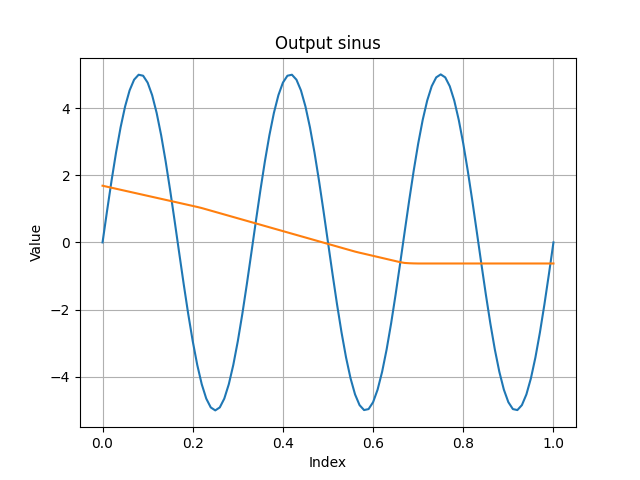
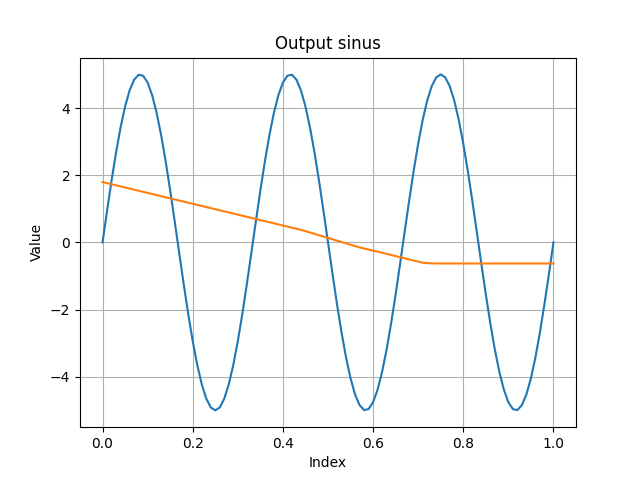
add validation to the training step

Changed region(s): [[0.1562, 0.375, 0.6875, 0.5625]]

diff --git a/moppy/deep_promp/deep_promp.py b/moppy/deep_promp/deep_promp.py
@@ -29,7 +29,7 @@ def gauss_kl(mu_q, std_q, mu_p=None, std_p=None, scale=1.0):
     return distributions.kl_divergence(q_dist, p_dist)
 
 
-def calculate_elbo(y_pred, y_star, mu, sigma, beta=1.0):
+def calculate_elbo(y_pred, y_star, mu, sigma, beta=0.5):
     """Calculate the Evidence Lower Bound (ELBO) using the reconstruction loss and the KL divergence.
     The ELBO is the loss function used to train the DeepProMP."""
 
@@ -49,7 +49,6 @@ class DeepProMP(MovementPrimitive):
 
     def __init__(self, name: str, encoder: EncoderDeepProMP, decoder: DecoderDeepProMP, save_path: str = './deep_promp/output/'):
         super().__init__(name, encoder, decoder)
-        print("DeepProMP init")
 
         # Check if the encoder and decoder are instances/subclasses of EncoderDeepProMP and DecoderDeepProMP
         if not issubclass(type(encoder), EncoderDeepProMP):
@@ -102,11 +101,18 @@ class DeepProMP(MovementPrimitive):
         """Train the DeepProMP using the given trajectories. The training is done using the Evidence Lower Bound (ELBO).
         The ELBO is the loss function used to train the DeepProMP. The training is done using the Adam optimizer."""
         # Optimizers
+        training_set = trajectories[:(len(trajectories) * 9) // 10]
+        validation_set = trajectories[-len(trajectories) // 10:]
+        print("Total set: ", len(trajectories))
+        print(f"Training set: {len(training_set)}")
+        print(f"Validation set: {len(validation_set)}")
+
         optimizer = optim.Adam(list(self.encoder.net.parameters()) + list(self.decoder.net.parameters()), lr=0.001)
         losses_traj = []
-        episodes = 10
+        losses_validation = []
+        episodes = 100
         for i in range(episodes):
-            for tr_i, data in enumerate(trajectories):
+            for tr_i, data in enumerate(training_set):
                 optimizer.zero_grad()  # Zero the gradients of the optimizer to avoid accumulation
                 mu, sigma = self.encoder(data)
                 latent_var_z = self.encoder.sample_latent_variable(mu, sigma)
@@ -119,8 +125,12 @@ class DeepProMP(MovementPrimitive):
                 loss = calculate_elbo(decoded, data.to_vector(), mu, sigma)
                 print(f"{i + 1}/{episodes} - {tr_i + 1}/{len(trajectories)} = {loss.item()}")
                 loss.backward()
-                # losses_traj.append(loss.detach().numpy())
+                losses_traj.append(loss.detach().numpy())
                 optimizer.step()
+            # validation
+            validation_loss = self.validate(validation_set)
+            losses_validation.append(validation_loss)
+            print(f"Episode {i+1} validation loss = " + validation_loss)
 
         print("Training finished")
         print("Plotting...", end='', flush=True)
@@ -134,7 +144,6 @@ class DeepProMP(MovementPrimitive):
         plt.grid(True)
 
         # Save the plot as an image file
-        #plt.savefig('tensor_values_plot.png')
         values = [t.item() for t in losses]
         # Plotting
         plt.plot(values)
@@ -146,6 +155,16 @@ class DeepProMP(MovementPrimitive):
         # Save the plot as an image file
         plt.savefig(self.save_path + 'msloss.png')
 
+        plt.close()
+        plt.plot(losses_validation)
+        plt.title('Validation Loss')
+        plt.xlabel('Index')
+        plt.ylabel('Value')
+        plt.grid(True)
+
+        # Save the plot as an image file
+        plt.savefig(self.save_path + 'validation_loss.png')
+
         print("finished")
         print("Saving models...", end='', flush=True)
         self.decoder.save_model(self.save_path)
@@ -155,9 +174,22 @@ class DeepProMP(MovementPrimitive):
     def test(self):
         raise NotImplementedError()
 
-    def validate(self):
-        raise NotImplementedError()
+    def validate(self, trajectories: List[Trajectory]):
+        loss = 0
+        for traj in trajectories:
+            mu, sigma = self.encoder(traj)
+            latent_var_z = self.encoder.sample_latent_variable(mu, sigma)
 
+            decoded = []
+            for j in traj.get_points():
+                decoded.append(self.decoder(latent_var_z, j.get_time()))
+            decoded = torch.cat(decoded)
+
+            loss += nn.MSELoss()(decoded, traj.to_vector()).detach().numpy()
+        return loss / len(trajectories)  # Average loss
 
     def __str__(self):
-        return f"DeepProMP: {self.name} - encoder: {self.encoder} - decoder: {self.decoder}"
+        return f"DeepProMP({self.name})" '{' + \
+            '\n' + f"encoder: {self.encoder}" + \
+            '\n' + f"decoder: {self.decoder}" + \
+            '\n' + '}'

diff --git a/moppy/deep_promp/encoder_deep_pro_mp.py b/moppy/deep_promp/encoder_deep_pro_mp.py
@@ -19,7 +19,6 @@ class EncoderDeepProMP(LatentEncoder):
                  trajectory_state_class: Type[TrajectoryState] = JointConfiguration,
                  activation_function: Union[nn.Tanh, nn.ReLU, nn.Sigmoid] = nn.ReLU):
         super().__init__()
-        print("EncoderDeepProMP init")
 
         # Check if the trajectory state class is a subclass of TrajectoryState
         if trajectory_state_class not in TrajectoryState.__subclasses__():
@@ -140,8 +139,8 @@ class EncoderDeepProMP(LatentEncoder):
         ret: str = 'EncoderDeepProMP {'
         ret += '\n\t' + f'neurons: {self.neurons}'
         ret += '\n\t' + f'input_dimension: {self.input_dimension}'
-        ret += '\n\t' + f'latent_variable_dimension: {self.latent_variable_dimension}'
         ret += '\n\t' + f'hidden_neurons: {self.hidden_neurons}'
+        ret += '\n\t' + f'latent_variable_dimension: {self.latent_variable_dimension}'
         ret += '\n\t' + f'activation_function: {self.activation_function}'
         ret += '\n\t' + f'trajectory_state_class: {self.trajectory_state_class}'
         ret += '\n\t' + f'net: {str(self.net)}'

diff --git a/moppy/sinus_test/main_sinus.py b/moppy/sinus_test/main_sinus.py
@@ -11,14 +11,14 @@ def load_from_file_trajectory():
     """Load the trajectories from the files"""
     tr = []
     for i in range(50):
-        tr.append(Trajectory.load_points_from_file("sinus_test/trajectories/sin_%s.pth" % i, SinusState))
+        tr.append(Trajectory.load_points_from_file("trajectories/sin_%s.pth" % i, SinusState))
 
     return tr
 
 
 def test_deep_pro_mp():
-    encoder = EncoderDeepProMP(3, [10, 10, 10, 10], SinusState)
-    decoder = DecoderDeepProMP(3, [10, 10, 10, 10], SinusState)
+    encoder = EncoderDeepProMP(2, [10, 10], SinusState)
+    decoder = DecoderDeepProMP(2, [10, 10], SinusState)
     deep_pro_mp = DeepProMP("deep_pro_mp", encoder, decoder)
     print(deep_pro_mp)
     deep_pro_mp.train(load_from_file_trajectory())

diff --git a/moppy/sinus_test/print_sinus.py b/moppy/sinus_test/print_sinus.py
@@ -11,12 +11,12 @@ encoder.load_model('../deep_promp/output')
 
 decoder = DecoderDeepProMP(3, [10, 10, 10, 10], SinusState)
 decoder.load_model('../deep_promp/output')
-name = 'sin_49'
+name = 'sin_25'
 traj = Trajectory.load_points_from_file(f'./trajectories/{name}.pth', SinusState)
 
 mu, sigma = encoder.encode_to_latent_variable(traj)
-print(mu)
-print(sigma)
+print(f"mu: {mu}")
+print(f"sigma: {sigma}")
 Z = encoder.sample_latent_variable(mu, sigma)
 print(Z)
 Z = torch.normal(torch.zeros(3), torch.ones(3))

diff --git a/moppy/deep_promp/decoder_deep_pro_mp.py b/moppy/deep_promp/decoder_deep_pro_mp.py
@@ -16,7 +16,6 @@ class DecoderDeepProMP(LatentDecoder):
                  trajectory_state_class: Type[TrajectoryState] = JointConfiguration,
                  activation_function: Union[nn.Tanh, nn.ReLU, nn.Sigmoid] = nn.ReLU):
         super().__init__()
-        print("DecoderDeepProMP init")
 
         # Check if the trajectory state class is a subclass of TrajectoryState
         if trajectory_state_class not in TrajectoryState.__subclasses__():
